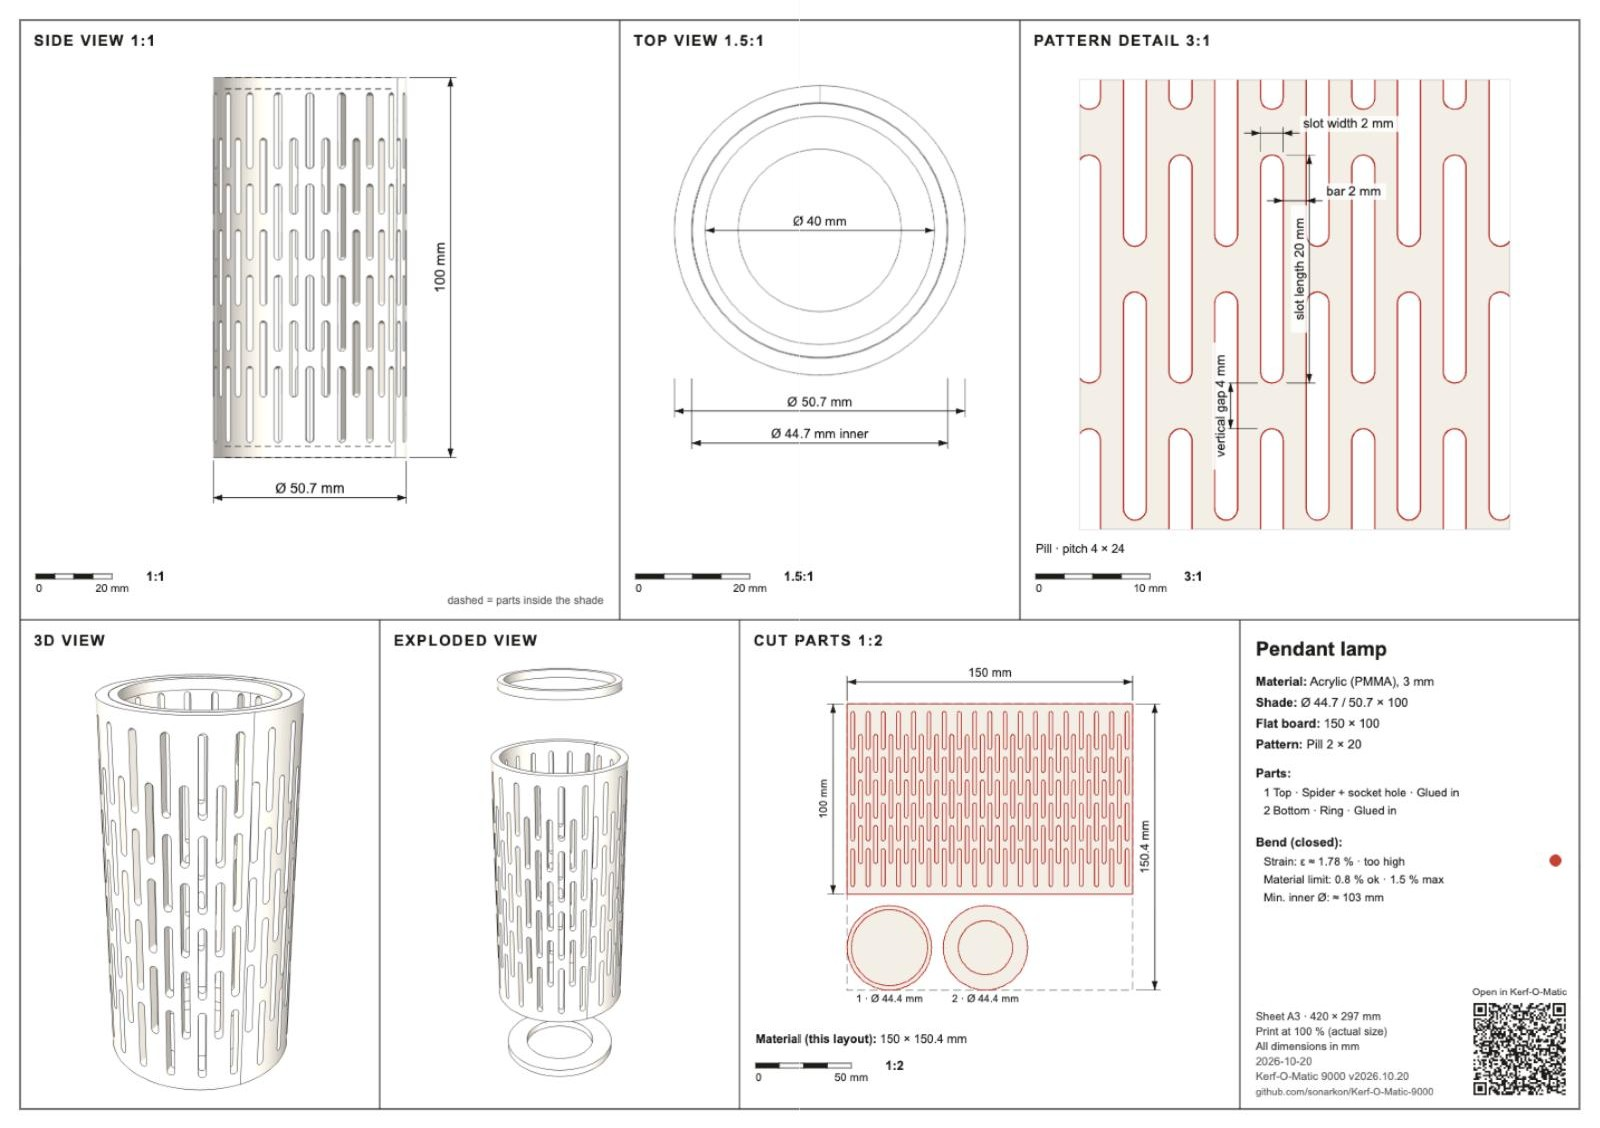
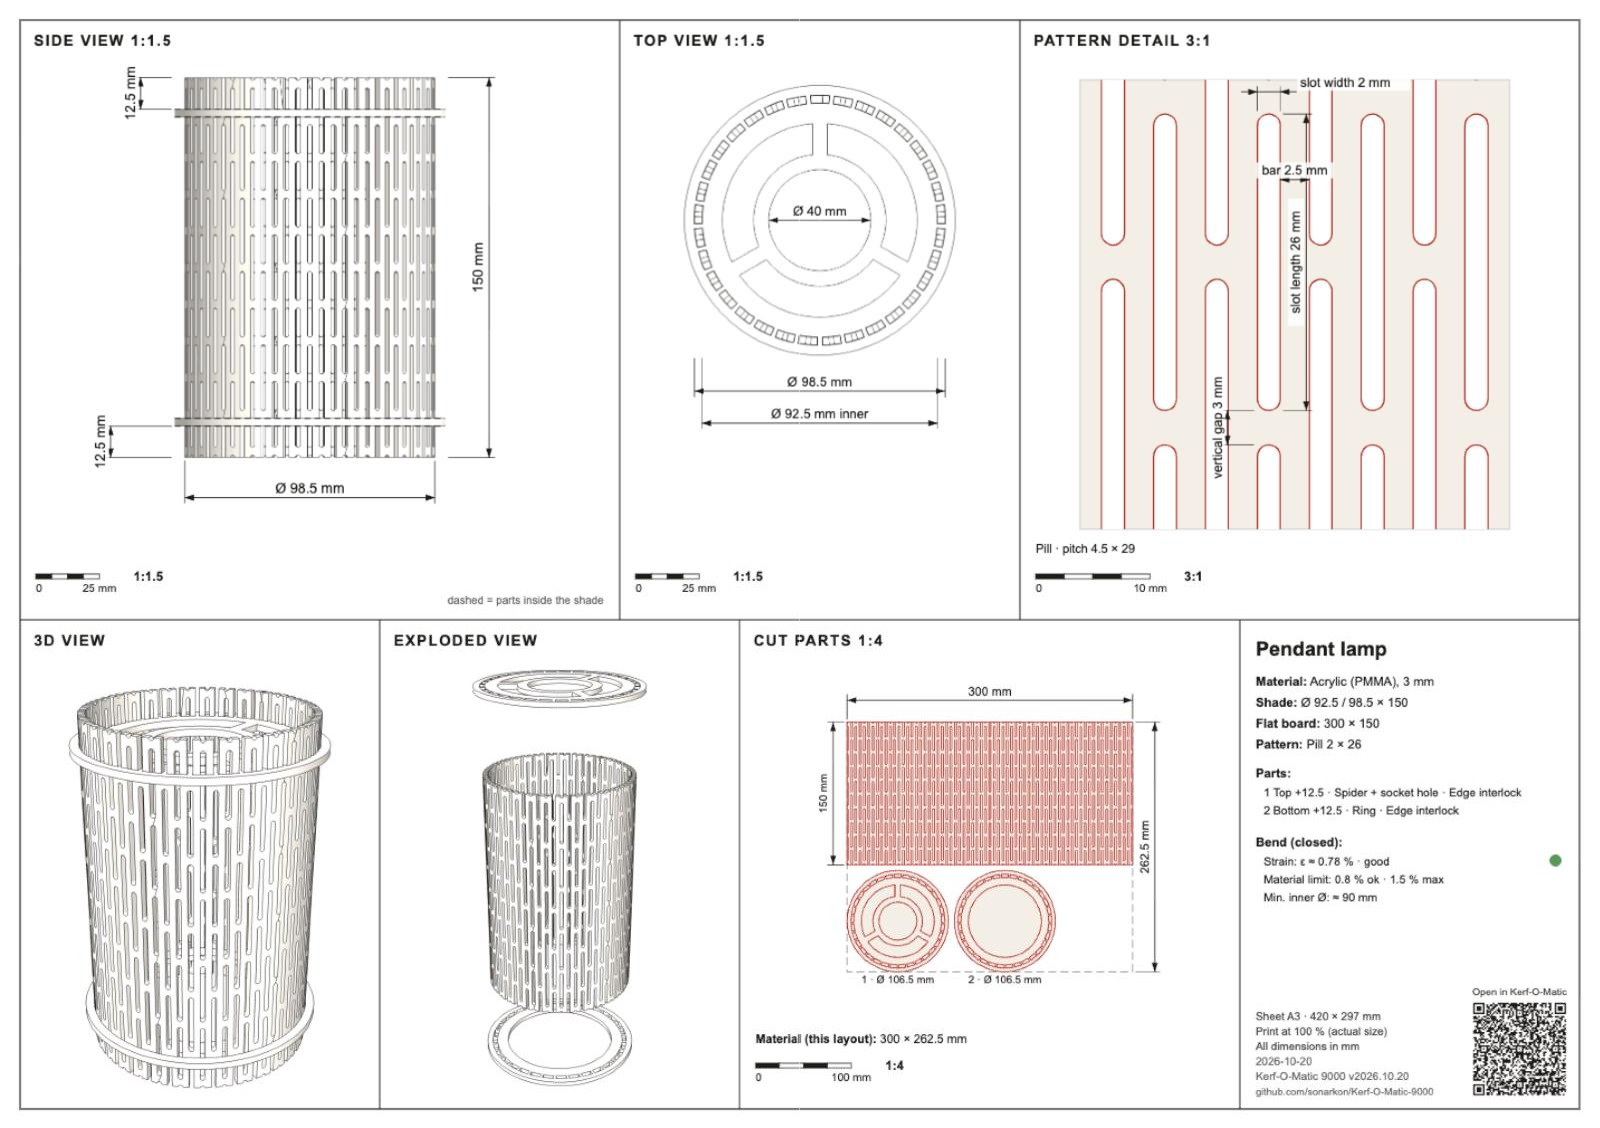
README screenshots: optimized designs, new 3D view
- Drawing, lamp and creative screenshots retaken with designs brought
  into the good range by Optimize
- 3D screenshot: plywood with hexagon slots, half bent, in real thickness

diff --git a/README.md b/README.md
@@ -114,7 +114,7 @@ Parts for a **pendant lamp with an E27 socket** around the shade from Simple or 
   - **Heat** (thermometer) – the heat of the cut order during the cut preview.
 - **3D** shows the extruded part with its real thickness – the same closed solid as the STL/OBJ export. Acrylic is semi-transparent, wood is opaque. Drag to orbit, right-drag to pan, wheel to zoom. three.js is loaded only when 3D is opened.
 
-![3D preview: closed cylinder with the light on](kerf-o-matic-3d.jpg)
+![3D preview: plywood board with hexagon slots, bent half way, in its real thickness](kerf-o-matic-3d.jpg)
 
 ## Bendability estimate
 
